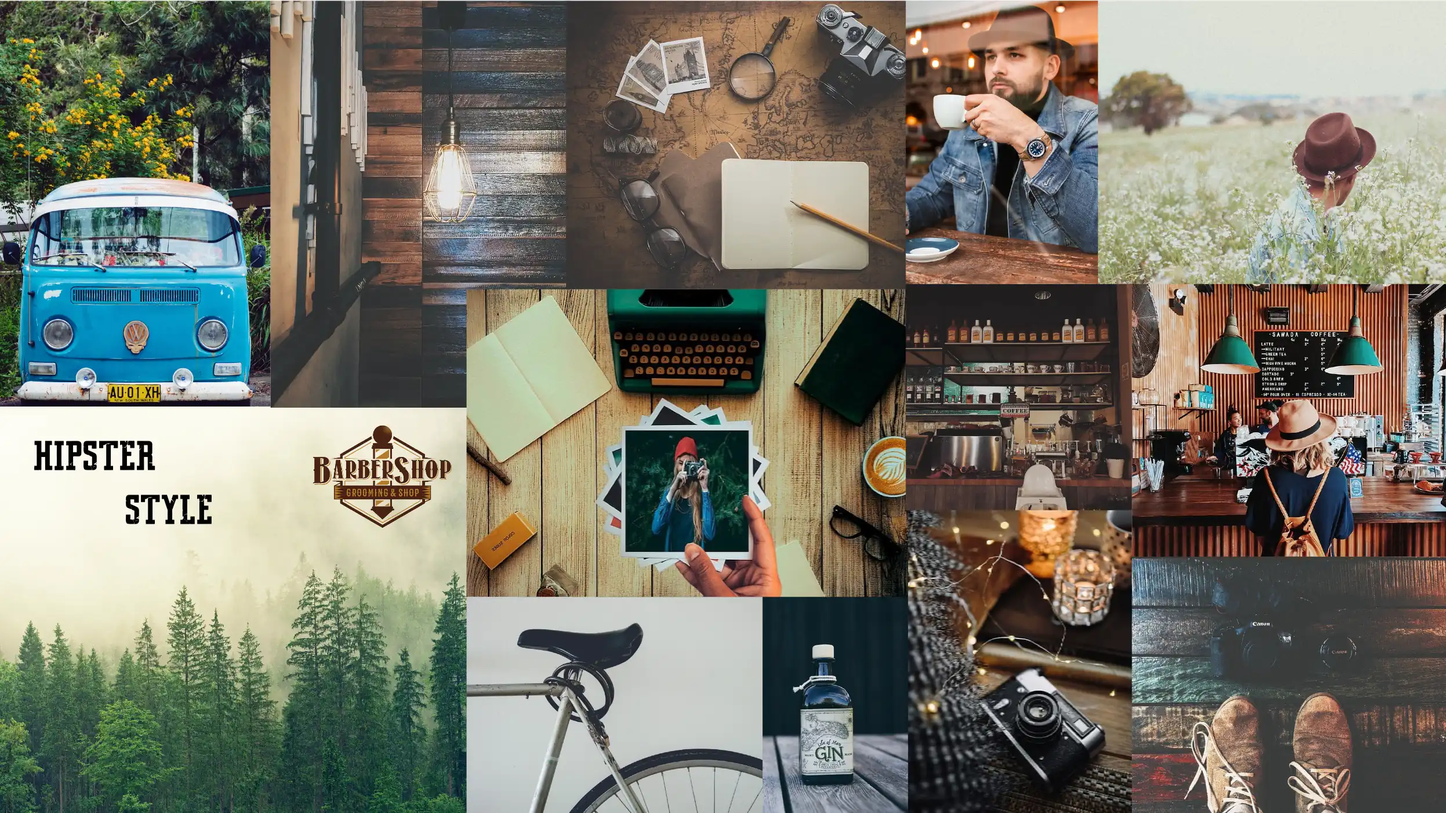
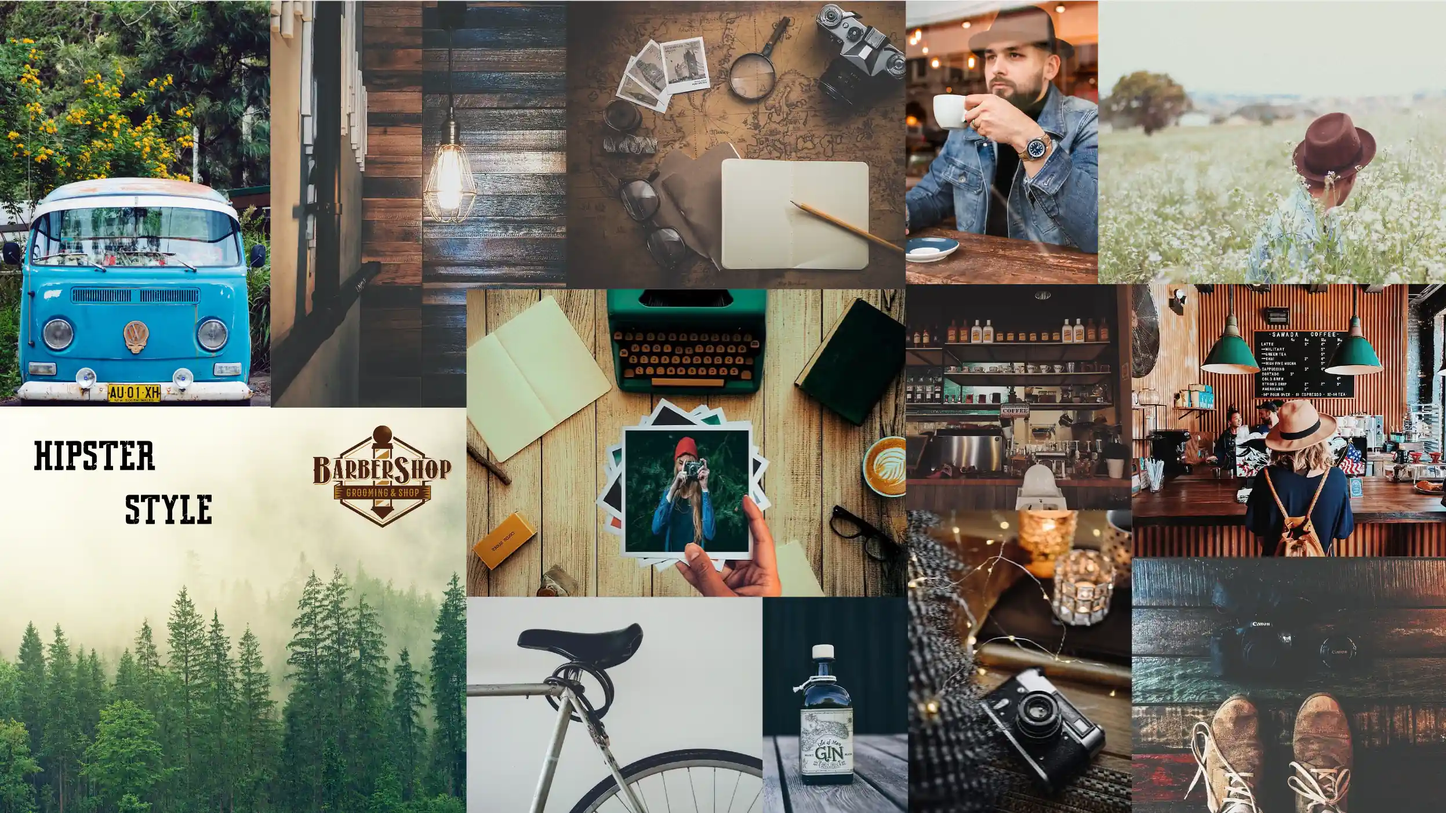
rettet billeder

diff --git a/ux.html b/ux.html
@@ -65,7 +65,7 @@
             <h3>03.01.05 Idé</h3>
             <div class="sectionwrapper">
                 <div class="billede">
-                    <img src="img/crazy8.png" alt="sketch">
+                    <img src="edited/crazy8.webp" alt="sketch">
                 </div>
                 <div class="tekst">
                     <p> I denne opgave skulle jeg definere min idé og databehandle de indsigter jeg fandt frem til gennem de fire forskellige researchs, til udarbejdelsen af min ide til prototypen. I forbindelse med det gik vi igang med 'Sketch fasen'. Inden skisering skulle vi lave 'Lightning Demos', hvor jeg her researchede på ideer online, som var med til at inspirere inden begyndelsen på skitserne. <br><br>'Sketch' processen indeholdt 'Ideas', 'Crazy 8s' og 'Solution Sketch'. Jeg brugte Ideas fasen til at udvælge og skitsere interessante ideer fra lightning demoen. Crazy 8s fasen brugte jeg efterfølgende til at lave 8 forskellige løsninger af en af ideerne. Herefter lavede jeg en Solution Sketch på baggrund af de ideer jeg fandt interesant, og som kunne løse nogle af problemstillingerne. <br><br>Alt i alt brugte jeg skitserings fasen til at udvælge ideer til prototypen med kenskab til de tidligere indsigter fra test-fasen.
@@ -83,7 +83,7 @@
                     <p>I denne opgave blev vi introduceret til 'pitch', hvor vi her fik kenskab til den overordnede struktur når man pitcher: 1. UX-research, 2. UX/UI-design og 3. UX-test. Jeg brugte følgende struktur til at udføre mit pitch overfor nogle af mine medstuderende. <br><br>I mit pitch satte jeg stort fokus på en fængende indledning med fokus på mit koncept, samt understrege ændringen i mit koncept fra første idé. For at beskrive UX/UI-design kom jeg mere ind på løsningerne i websitet, her med fokus på målgruppen, produktegenskaber, samt designprocessen, som jeg viste vha. moodboard og styletile efterfulgt af gennemgangen af prototypen. I løbet af gennemgangen kom jeg ind på copy og microcopy, herunder bl.a. kategorier/underkategorier, overskrifter, børdtekst, produktbeskrivelser, social proof, persuasion og social proof. Til sidst i mit pitch kom jeg ind på hvilke indsigter jeg havde gjort mig i test-fasen, som hermed var kommet med i overvejelserne til udarbejdelsen af den endelige prototype. </p>
                 </div>
                 <div class="billede">
-                    <img src="img/pitch.png" alt="pitch" class="center">
+                    <img src="edited/pitch.webp" alt="pitch" class="center">
                 </div>
             </div>
         </section>
